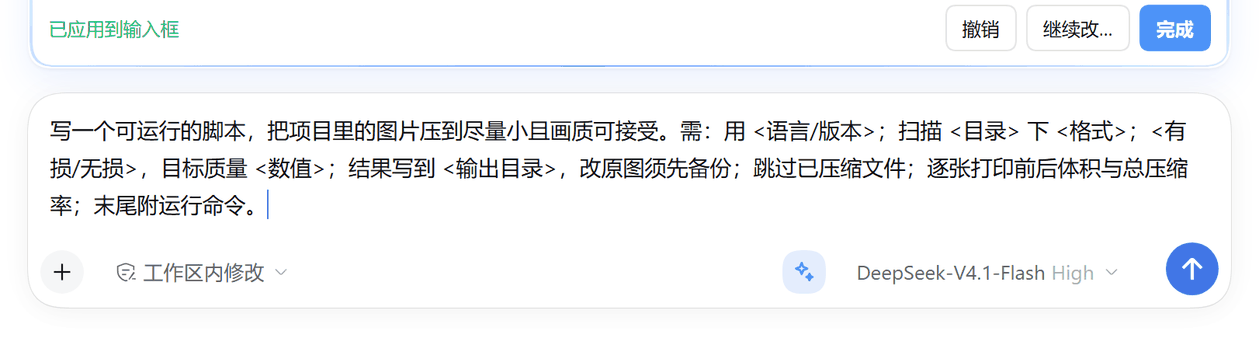
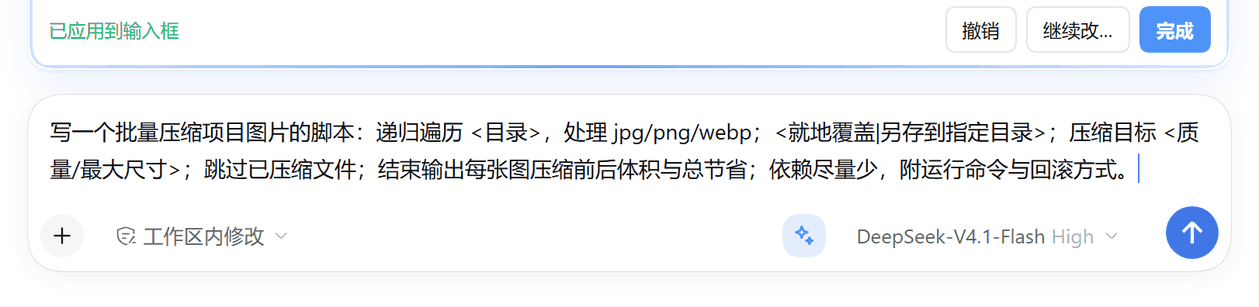
fix: measure the composer card for panel width and give the exit button a red chip (0.2.3)

diff --git a/lib/client.js b/lib/client.js
@@ -16,7 +16,7 @@ window.__ModuleLoader__.load({
         "use strict";
         var PLUGIN_ID2 = "dsh-prompt-craft";
         var RPC_PATH = "/dsh-prompt-craft/rpc";
-        var VERSION = "0.2.2";
+        var VERSION = "0.2.3";
         var METHODS = Object.freeze({
           ENHANCE: "enhance",
           REFINE: "refine",
@@ -200,12 +200,27 @@ window.__ModuleLoader__.load({
     .dpc-btn[disabled] { cursor: default; opacity: .38; }
     .dpc-btn[disabled]:hover { background: transparent; }
     .dpc-btn svg { width: 16px; height: 16px; display: block; }
+    /* The panel's exit button: a soft red chip so it reads as "close" at a glance. */
+    .dpc-close {
+      border-radius: 8px;
+      background: rgba(229, 72, 77, .14);
+      background: color-mix(in srgb, var(--dsw-alias-state-error-primary, #d33d43) 16%, transparent);
+      color: var(--dsw-alias-state-error-primary, #d33d43);
+      box-shadow: inset 0 0 0 1px rgba(229, 72, 77, .26);
+      box-shadow: inset 0 0 0 1px color-mix(in srgb, var(--dsw-alias-state-error-primary, #d33d43) 30%, transparent);
+    }
+    .dpc-close:hover {
+      background: rgba(229, 72, 77, .24);
+      background: color-mix(in srgb, var(--dsw-alias-state-error-primary, #d33d43) 28%, transparent);
+      color: var(--dsw-alias-state-error-primary, #d33d43);
+    }
 
     /**
      * The panel lives in the composer dock, whose parent (the composer stack) also
-     * holds the input card. The input card is inset 16px on each side inside that
-     * stack, so the same inline inset here makes the two boxes share their left and
-     * right edges at every window width instead of the panel spanning the padding.
+     * holds the input card. The inline inset below is only the first-paint fallback:
+     * panel.js measures the card and overrides it with the card's real insets, so
+     * the two boxes share their left and right edges in every layout (sidebars open
+     * or closed, any window width) instead of the panel spanning the padding.
      */
     .dpc-panel {
       position: relative;
@@ -1600,6 +1615,41 @@ window.__ModuleLoader__.load({
         var { createTranslator } = require_i18n();
         var { MODES, SCENARIOS } = require_protocol();
         var h = React.createElement;
+        var useLayoutEffect = React.useLayoutEffect || React.useEffect || function useLayoutEffectFallback() {
+        };
+        var useRef = React.useRef || function useRefFallback(initial) {
+          return { current: initial === void 0 ? null : initial };
+        };
+        function panelAnchor(panel) {
+          if (!panel) return null;
+          let anchor = panel.parentElement;
+          while (anchor && anchor.parentElement && anchor.getBoundingClientRect().width <= 0) {
+            anchor = anchor.parentElement;
+          }
+          return anchor;
+        }
+        function alignToComposer(panel) {
+          const anchor = panelAnchor(panel);
+          if (!panel || !anchor) return;
+          const parentRect = anchor.getBoundingClientRect();
+          let card = typeof anchor.querySelector === "function" ? anchor.querySelector("[data-composer-input]") : null;
+          while (card && card !== anchor) {
+            const radius = parseFloat(getComputedStyle(card).borderTopLeftRadius) || 0;
+            if (radius >= 16) break;
+            card = card.parentElement;
+          }
+          if (!card || card === anchor || typeof card.getBoundingClientRect !== "function") {
+            panel.style.marginLeft = "16px";
+            panel.style.marginRight = "16px";
+            return;
+          }
+          const cardRect = card.getBoundingClientRect();
+          if (!(cardRect.width > 0)) return;
+          const left = Math.max(0, Math.round(cardRect.left - parentRect.left));
+          const right = Math.max(0, Math.round(parentRect.right - cardRect.right));
+          panel.style.marginLeft = left + "px";
+          panel.style.marginRight = right + "px";
+        }
         function metaLabel(meta) {
           if (!meta) return "";
           const model = typeof meta.model === "string" ? meta.model : "";
@@ -1650,6 +1700,30 @@ window.__ModuleLoader__.load({
           const input = props.input || (typeof props.useInput === "function" ? props.useInput(function selectInput(value) {
             return value;
           }) : null);
+          const panelRef = useRef(null);
+          useLayoutEffect(function syncPanelWidth() {
+            const panel = panelRef.current;
+            if (!panel) return void 0;
+            alignToComposer(panel);
+            const relayout = function relayout2() {
+              alignToComposer(panelRef.current);
+            };
+            let observer = null;
+            const anchor = panelAnchor(panel);
+            if (typeof ResizeObserver === "function" && anchor) {
+              observer = new ResizeObserver(relayout);
+              observer.observe(anchor);
+            }
+            if (typeof window !== "undefined" && typeof window.addEventListener === "function") {
+              window.addEventListener("resize", relayout);
+            }
+            return function cleanup() {
+              if (observer) observer.disconnect();
+              if (typeof window !== "undefined" && typeof window.removeEventListener === "function") {
+                window.removeEventListener("resize", relayout);
+              }
+            };
+          }, [state.open, sessionId]);
           if (!state.open) return null;
           const busy = state.status === "running";
           const mode = state.mode || settings.mode;
@@ -1734,7 +1808,7 @@ window.__ModuleLoader__.load({
                 "button",
                 {
                   type: "button",
-                  className: "dpc-btn",
+                  className: "dpc-btn dpc-close",
                   title: t("panel.close"),
                   "aria-label": t("panel.close"),
                   onClick: onClose
@@ -1981,7 +2055,7 @@ window.__ModuleLoader__.load({
           ) : null;
           return h(
             "div",
-            { className: "dpc-panel", role: "region", "aria-label": t("panel.title") },
+            { className: "dpc-panel", ref: panelRef, role: "region", "aria-label": t("panel.title") },
             h(
               "div",
               { className: "dpc-panel-inner" },

diff --git a/src/client/panel.js b/src/client/panel.js
@@ -13,6 +13,64 @@ const { createTranslator } = require('./i18n.js');
 const { MODES, SCENARIOS } = require('../protocol.cjs');
 
 const h = React.createElement;
+const useLayoutEffect = React.useLayoutEffect || React.useEffect || function useLayoutEffectFallback() {};
+const useRef = React.useRef || function useRefFallback(initial) {
+  return { current: initial === undefined ? null : initial };
+};
+
+/**
+ * Keep the panel's left and right edges on the composer card's edges. The card
+ * is the nearest rounded ancestor of the composer editor; the panel is docked
+ * in the same stack, so the card insets decide the panel width in every layout
+ * (sidebars open or closed, any window width) instead of a guessed padding.
+ * @param {any} panel
+ */
+/**
+ * The nearest ancestor of the panel that actually occupies space: the dock slot
+ * renders the panel through a `display: contents` wrapper, whose own rect is
+ * empty, so walk up to the composer box that holds both the panel and the input
+ * card.
+ * @param {any} panel
+ * @returns {any} the anchor element or null
+ */
+function panelAnchor(panel) {
+  if (!panel) return null;
+  let anchor = panel.parentElement;
+  while (anchor && anchor.parentElement && anchor.getBoundingClientRect().width <= 0) {
+    anchor = anchor.parentElement;
+  }
+  return anchor;
+}
+
+/**
+ * Keep the panel's left and right edges on the composer card's edges. The card
+ * is the nearest rounded ancestor of the composer editor; the panel is docked
+ * in the same box, so the card insets decide the panel width in every layout
+ * (sidebars open or closed, any window width) instead of a guessed padding.
+ * @param {any} panel
+ */
+function alignToComposer(panel) {
+  const anchor = panelAnchor(panel);
+  if (!panel || !anchor) return;
+  const parentRect = anchor.getBoundingClientRect();
+  let card = typeof anchor.querySelector === 'function' ? anchor.querySelector('[data-composer-input]') : null;
+  while (card && card !== anchor) {
+    const radius = parseFloat(getComputedStyle(card).borderTopLeftRadius) || 0;
+    if (radius >= 16) break;
+    card = card.parentElement;
+  }
+  if (!card || card === anchor || typeof card.getBoundingClientRect !== 'function') {
+    panel.style.marginLeft = '16px';
+    panel.style.marginRight = '16px';
+    return;
+  }
+  const cardRect = card.getBoundingClientRect();
+  if (!(cardRect.width > 0)) return;
+  const left = Math.max(0, Math.round(cardRect.left - parentRect.left));
+  const right = Math.max(0, Math.round(parentRect.right - cardRect.right));
+  panel.style.marginLeft = left + 'px';
+  panel.style.marginRight = right + 'px';
+}
 
 /**
  * @param {any} meta response meta from the host
@@ -83,6 +141,31 @@ function EnhancePanel(props) {
   const inputActions = props.inputActions || (props.session && props.session.inputActions) || null;
   const input = props.input || (typeof props.useInput === 'function' ? props.useInput(function selectInput(value) { return value; }) : null);
   void input;
+  const panelRef = useRef(null);
+
+  useLayoutEffect(function syncPanelWidth() {
+    const panel = panelRef.current;
+    if (!panel) return undefined;
+    alignToComposer(panel);
+    const relayout = function relayout() {
+      alignToComposer(panelRef.current);
+    };
+    let observer = null;
+    const anchor = panelAnchor(panel);
+    if (typeof ResizeObserver === 'function' && anchor) {
+      observer = new ResizeObserver(relayout);
+      observer.observe(anchor);
+    }
+    if (typeof window !== 'undefined' && typeof window.addEventListener === 'function') {
+      window.addEventListener('resize', relayout);
+    }
+    return function cleanup() {
+      if (observer) observer.disconnect();
+      if (typeof window !== 'undefined' && typeof window.removeEventListener === 'function') {
+        window.removeEventListener('resize', relayout);
+      }
+    };
+  }, [state.open, sessionId]);
 
   if (!state.open) return null;
 
@@ -173,7 +256,7 @@ function EnhancePanel(props) {
             'button',
             {
               type: 'button',
-              className: 'dpc-btn',
+              className: 'dpc-btn dpc-close',
               title: t('panel.close'),
               'aria-label': t('panel.close'),
               onClick: onClose,
@@ -467,7 +550,7 @@ function EnhancePanel(props) {
 
   return h(
     'div',
-    { className: 'dpc-panel', role: 'region', 'aria-label': t('panel.title') },
+    { className: 'dpc-panel', ref: panelRef, role: 'region', 'aria-label': t('panel.title') },
     h(
       'div',
       { className: 'dpc-panel-inner' },

diff --git a/src/client/styles.js b/src/client/styles.js
@@ -32,12 +32,27 @@ const CSS = `
 .dpc-btn[disabled] { cursor: default; opacity: .38; }
 .dpc-btn[disabled]:hover { background: transparent; }
 .dpc-btn svg { width: 16px; height: 16px; display: block; }
+/* The panel's exit button: a soft red chip so it reads as "close" at a glance. */
+.dpc-close {
+  border-radius: 8px;
+  background: rgba(229, 72, 77, .14);
+  background: color-mix(in srgb, var(--dsw-alias-state-error-primary, #d33d43) 16%, transparent);
+  color: var(--dsw-alias-state-error-primary, #d33d43);
+  box-shadow: inset 0 0 0 1px rgba(229, 72, 77, .26);
+  box-shadow: inset 0 0 0 1px color-mix(in srgb, var(--dsw-alias-state-error-primary, #d33d43) 30%, transparent);
+}
+.dpc-close:hover {
+  background: rgba(229, 72, 77, .24);
+  background: color-mix(in srgb, var(--dsw-alias-state-error-primary, #d33d43) 28%, transparent);
+  color: var(--dsw-alias-state-error-primary, #d33d43);
+}
 
 /**
  * The panel lives in the composer dock, whose parent (the composer stack) also
- * holds the input card. The input card is inset 16px on each side inside that
- * stack, so the same inline inset here makes the two boxes share their left and
- * right edges at every window width instead of the panel spanning the padding.
+ * holds the input card. The inline inset below is only the first-paint fallback:
+ * panel.js measures the card and overrides it with the card's real insets, so
+ * the two boxes share their left and right edges in every layout (sidebars open
+ * or closed, any window width) instead of the panel spanning the padding.
  */
 .dpc-panel {
   position: relative;
